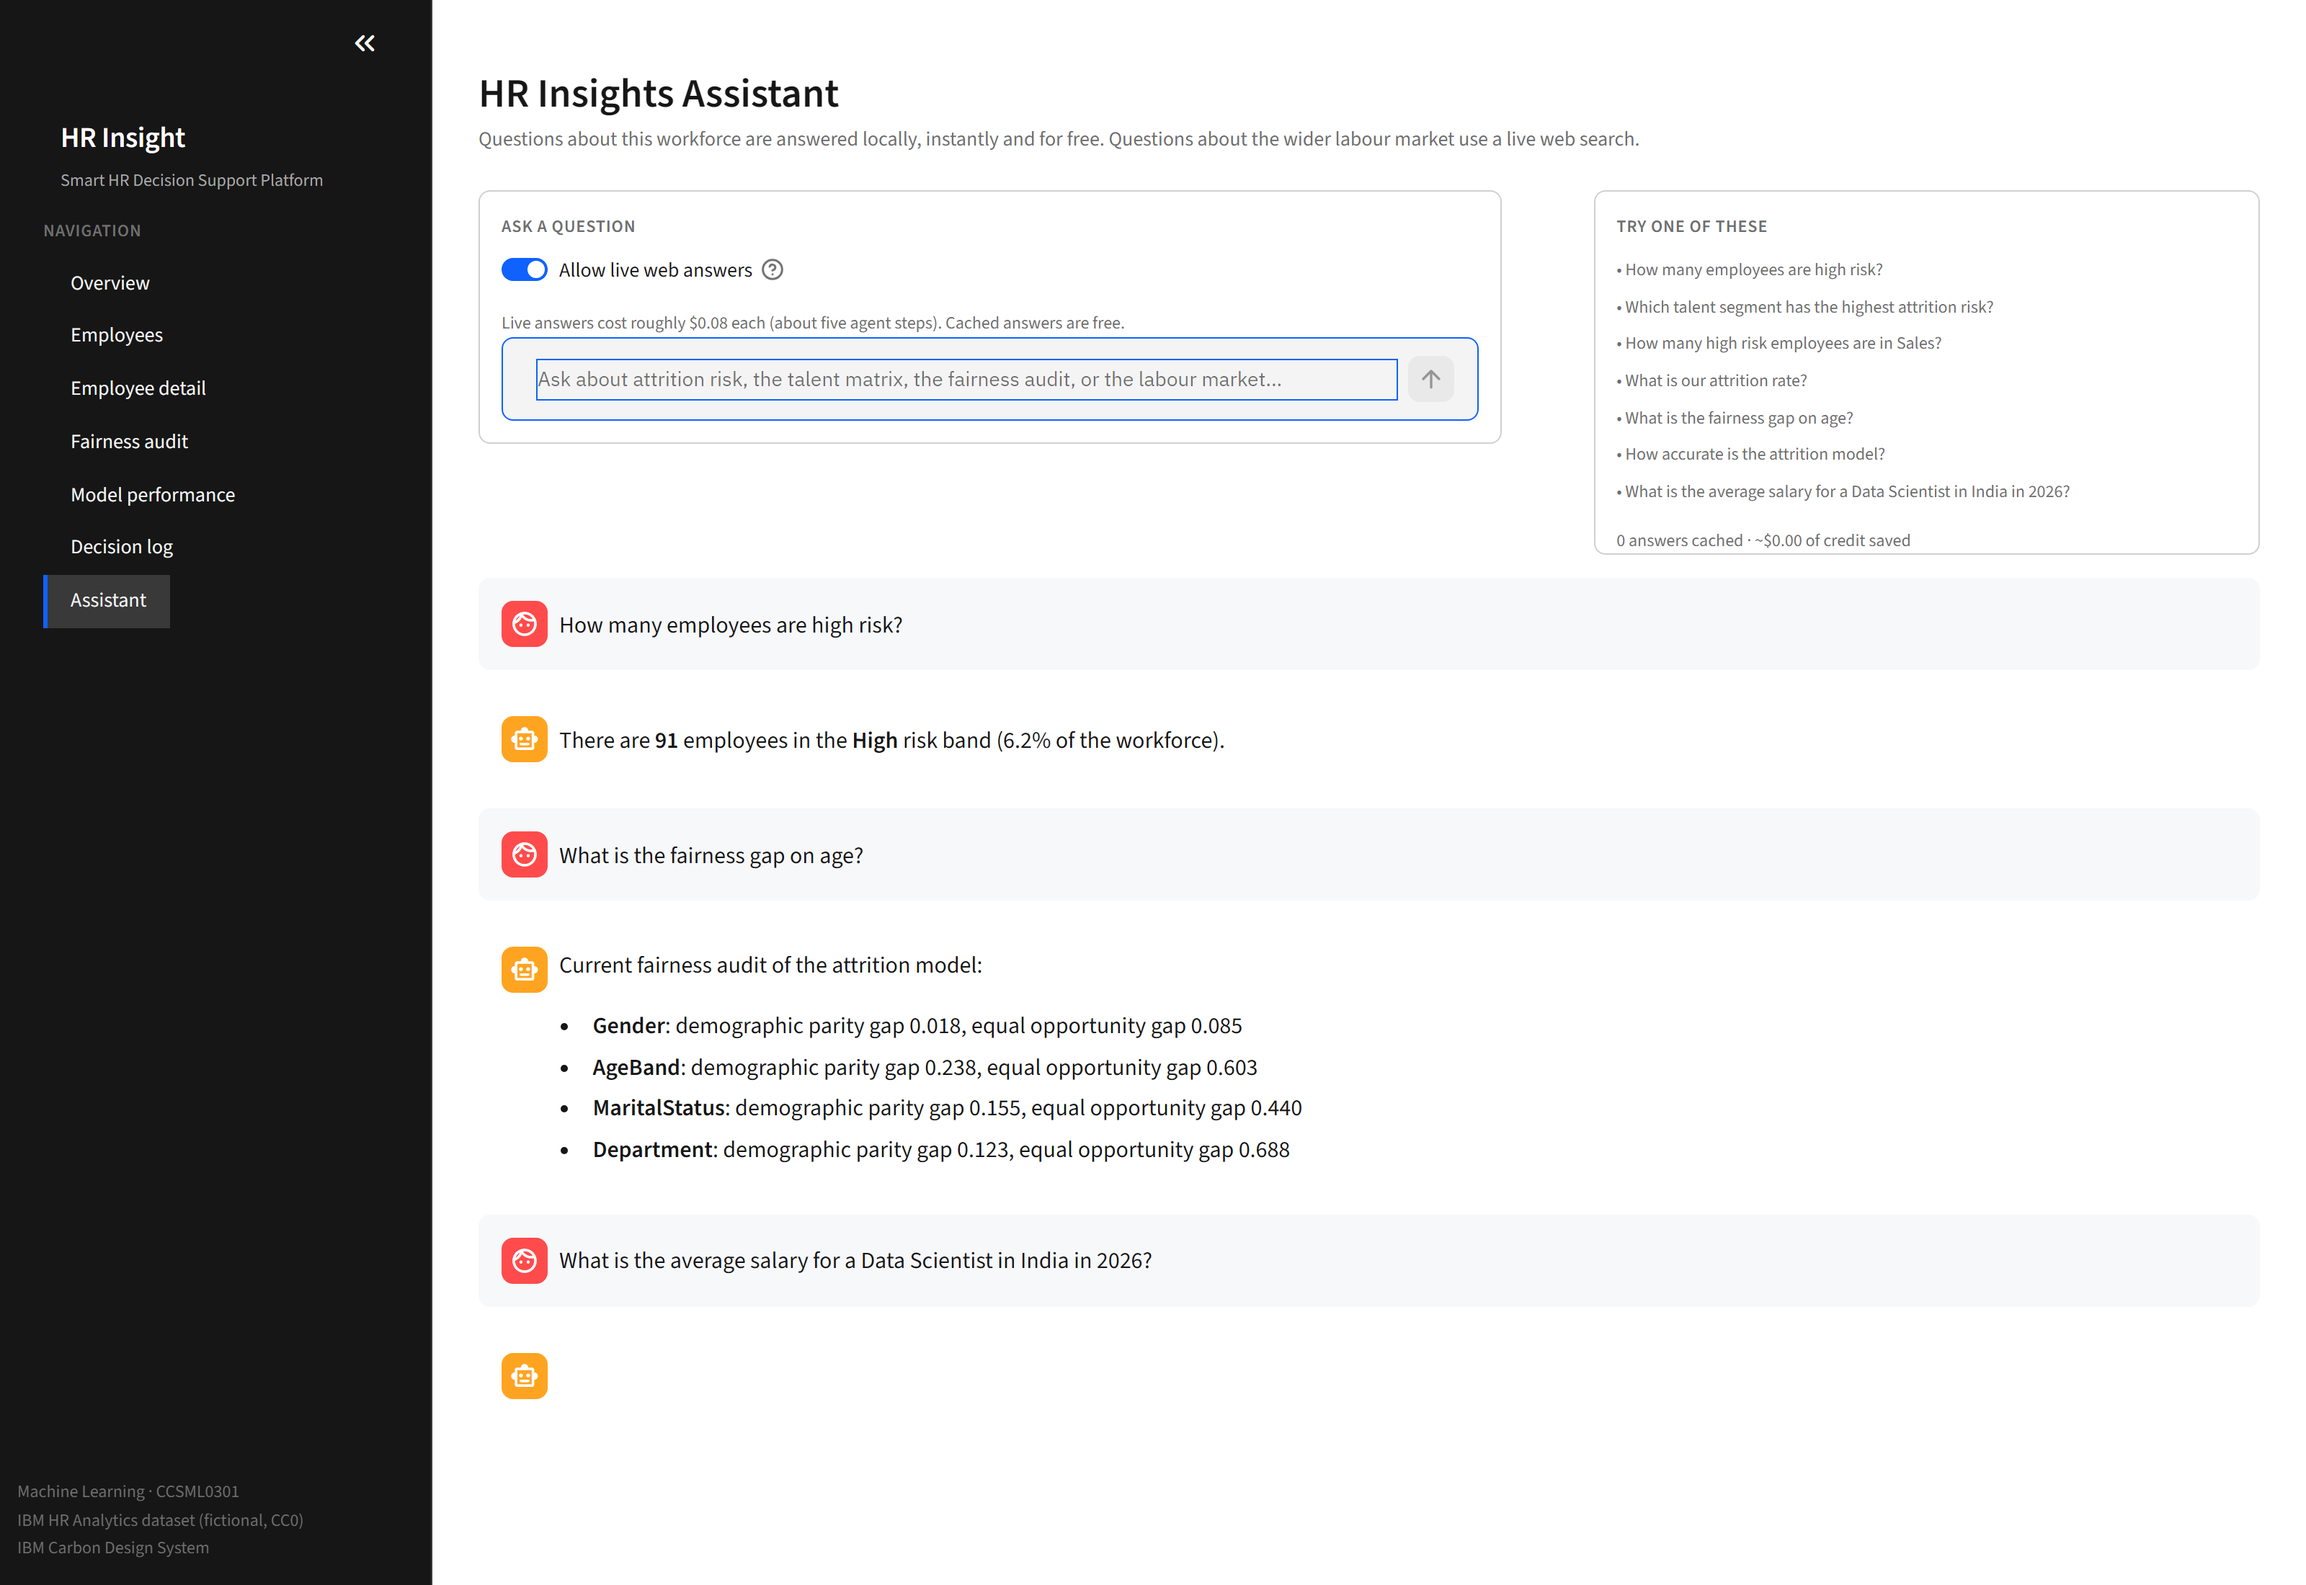
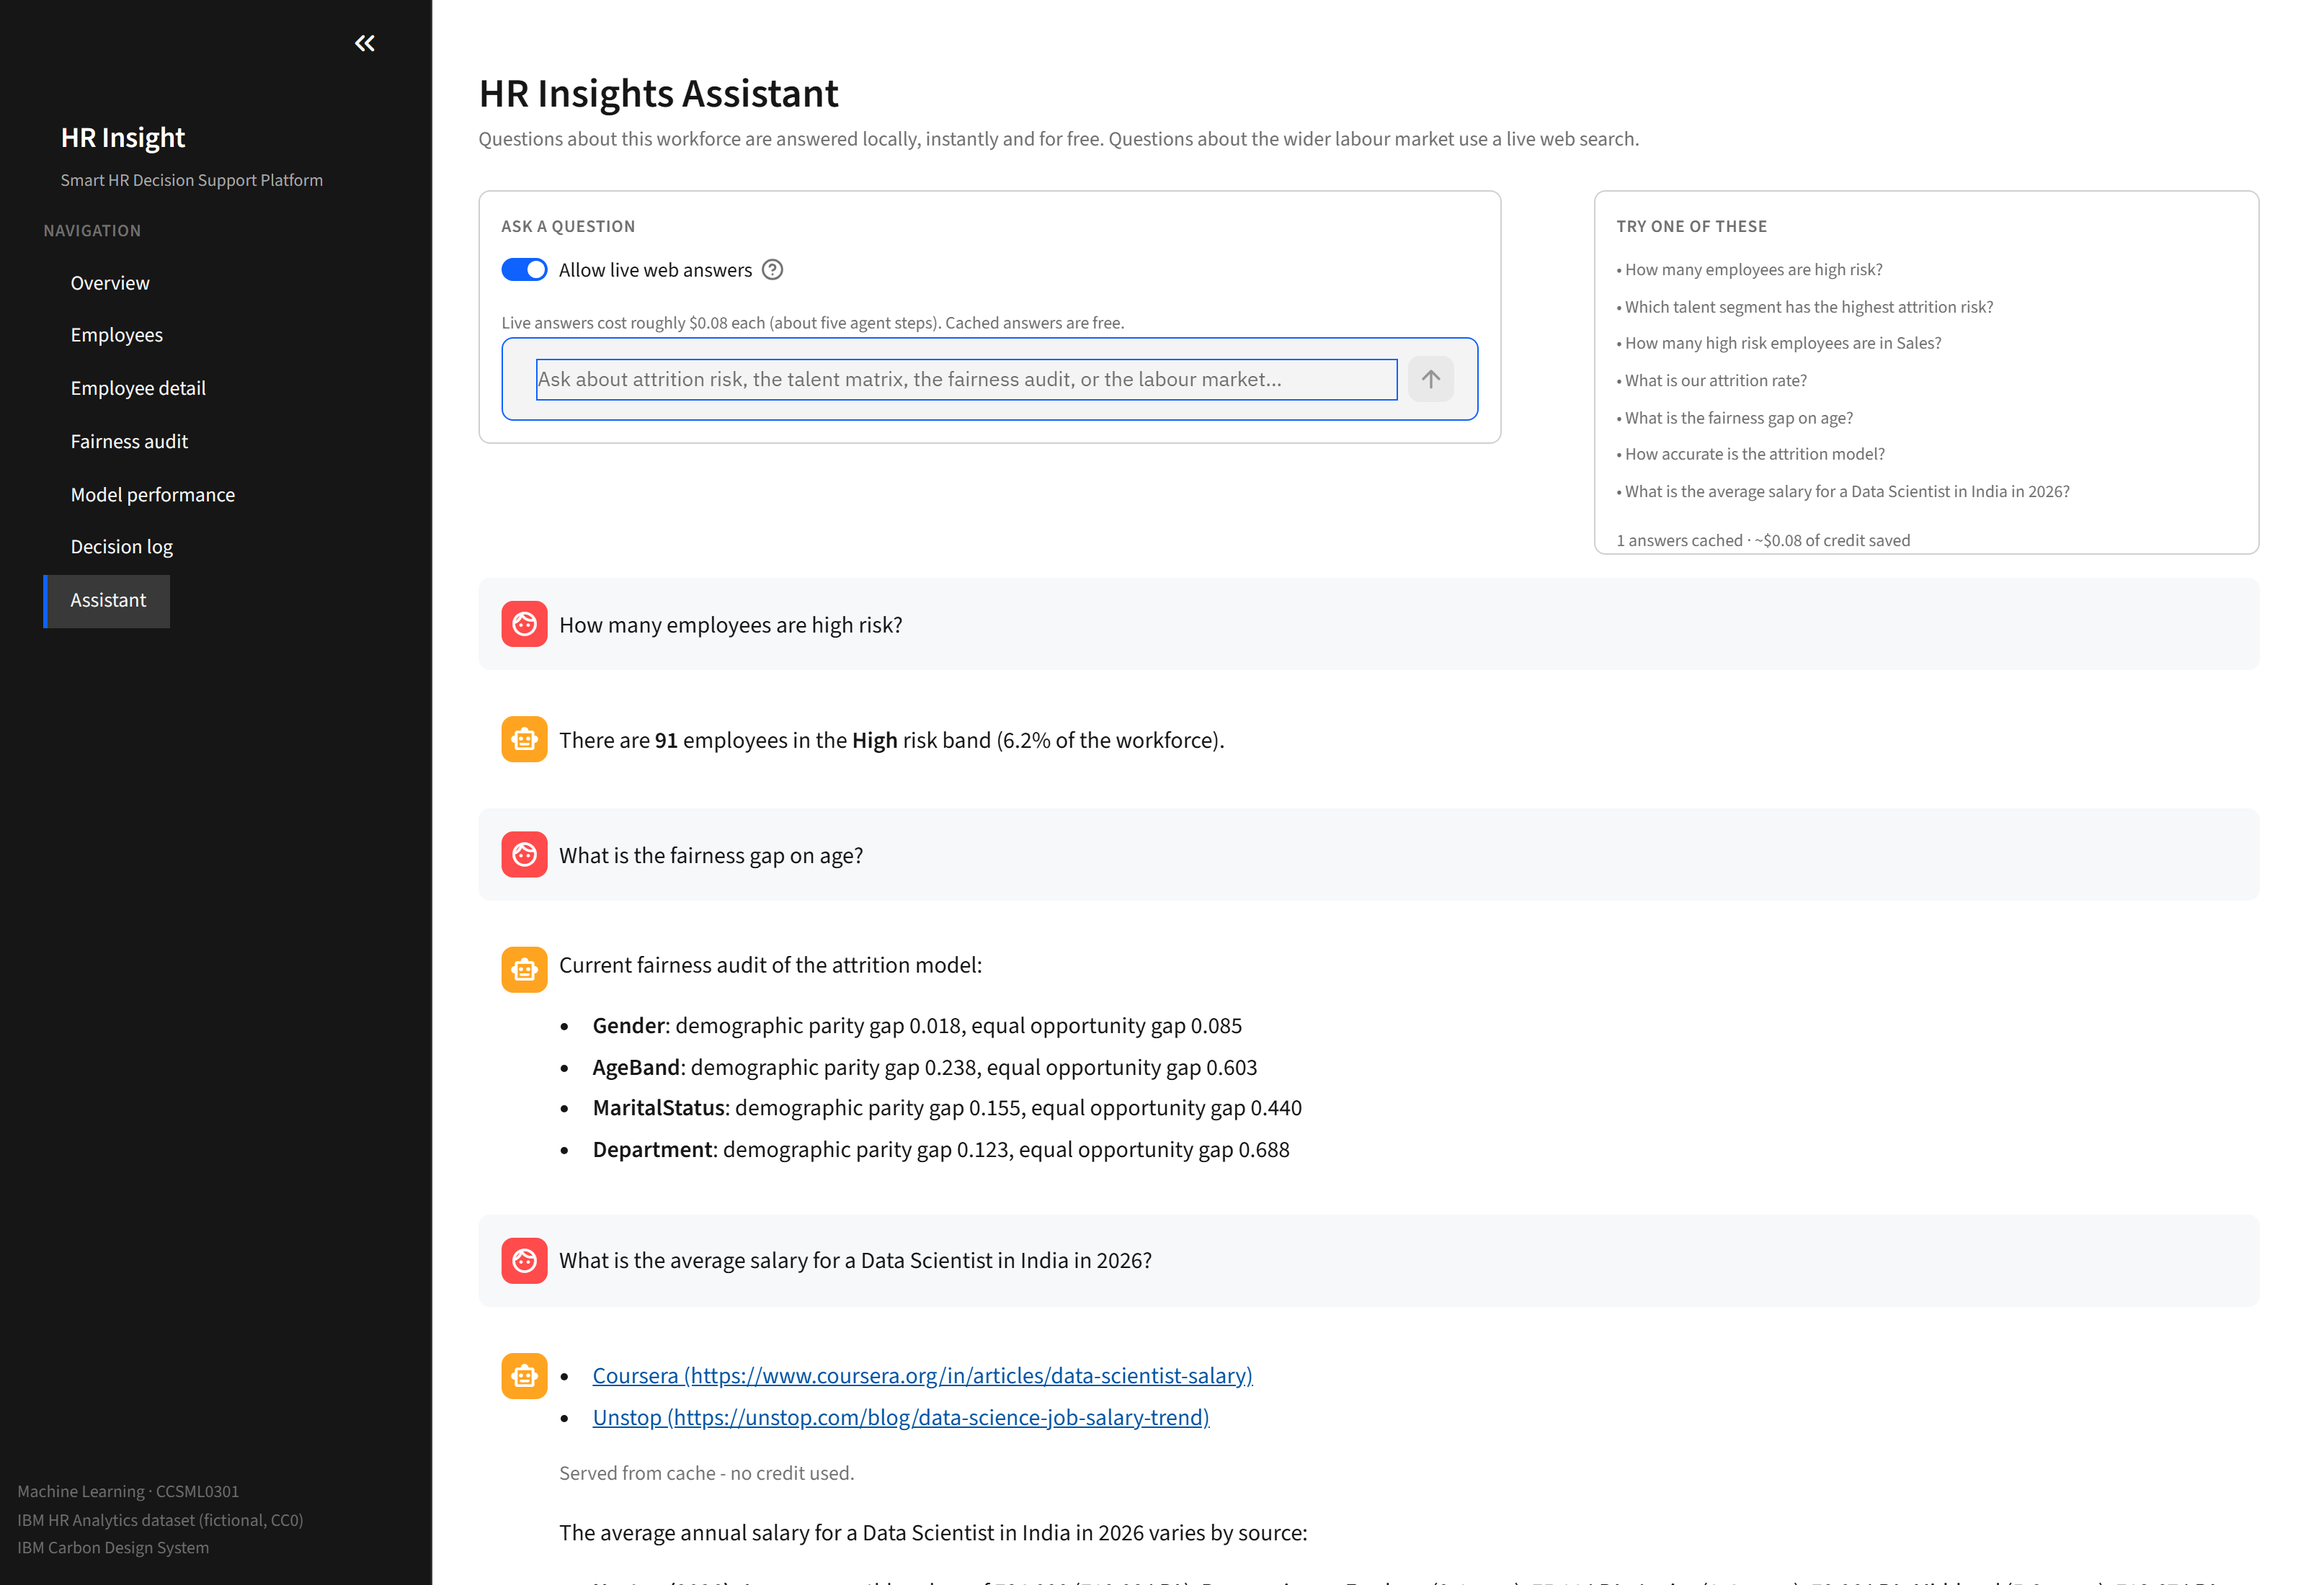
Add README_before.md - compacted project summary
A one-page companion to README.md and docs/report.md: what the project is,
how to run it, the module/result table, the three findings that carry the
report, the repo layout, the design-system summary, the budget, the
verification commands, and the three items left before submission.

diff --git a/README_before.md b/README_before.md
@@ -1,0 +1,161 @@
+# HR Insight — Compact Summary
+
+**Smart HR Decision Support Platform** · Machine Learning (CCSML0301) · BTech AI, Sem 3
+SDG 8 — Decent Work and Economic Growth · Individual assignment
+
+> Compacted one-page companion to [`README.md`](README.md) and
+> [`docs/report.md`](docs/report.md). Full detail lives in the model cards and
+> `docs/design.md`.
+
+---
+
+## What it is
+
+A decision-support platform for HR. It estimates attrition risk, places every employee
+on a talent matrix, explains each recommendation in plain language, audits the model for
+disparate impact across four protected attributes, and records every accept/override
+decision a manager makes.
+
+**Core commitment: the model advises, the human decides, the decision is recorded.**
+
+## Run it
+
+```bash
+pip install -r requirements.txt
+python ml/train_all.py      # rebuild every model + dataset (~61s, deterministic)
+streamlit run app/main.py   # http://localhost:8501
+```
+
+No Kaggle account needed — the dataset comes from a checksum-verified GitHub mirror.
+
+---
+
+## Modules and results
+
+| MVP | Module | Method | Headline result |
+|---|---|---|---|
+| 1 | Attrition risk | Logistic Regression + sigmoid calibration | ROC-AUC **0.813**, PR-AUC **0.584**, log-loss **0.339** (constant baseline 0.440) |
+| 2 | Talent matrix | K-Means (k=6, silhouette 0.278) + tertile axes | **9/9** cells populated, balanced axes |
+| 3 | Fairness audit | Fairlearn `MetricFrame`, reweighting, equalized-odds post-processing | AgeBand parity gap **0.238**, EO gap **0.603**, MAE ratio **1.98** |
+| 4 | Explainability | SHAP `LinearExplainer`, one-hot aggregated | Overtime **0.79**, Job role **0.49**, Environment **0.43** |
+| 5 | Human-in-the-loop | SQLite decision log | Overrides require a written reason |
+| 6 | Assistant | Deterministic local router + TinyFish live web | Internal = free/instant; live ≈ $0.08, cached |
+
+**7 pages:** Overview · Employees · Employee detail · Fairness audit · Model performance ·
+Decision log · Assistant
+
+---
+
+## Three findings that carry the report
+
+**1. The manager's performance rating is not a usable target.**
+`PerformanceRating` is a *deterministic* function of `PercentSalaryHike` — every employee
+with the same raise carries the same rating. Including the raise gives RMSE 0.0000 and
+R² 1.0000, which measures nothing. Remove it and the rating becomes *unpredictable*
+(CV ROC-AUC **0.457**, below chance). The talent matrix is therefore **descriptive, not
+predictive** — built on an observed engagement composite and an observed growth index.
+Pinned by a regression test.
+
+**2. The interpretable baseline won.**
+Logistic Regression (CV AUC **0.8411**) beat Gradient Boosting (0.8289), HistGradient
+Boosting (0.8130) and Random Forest (0.8071). Good news for an HR product: the winner is
+inherently interpretable and its SHAP values are exact rather than approximate.
+
+**3. Calibration was chosen on variance, not the mean.**
+Repeated CV (5×5) over {none, sigmoid, isotonic}: all three tie on mean log-loss
+(~0.324). Isotonic has **2.3× the variance** and emits degenerate 0/1 probabilities.
+Sigmoid wins the tie-break — the UI tells a manager "risk 62%", so stability matters more
+than a 0.003-nat mean difference.
+
+**Bonus — the fairness detector is validated, not just reported.**
+A synthetic generator injects a *known* unfair component. The reported gap tracks it
+monotonically (0.051 → 0.777) and model AUC *rises* with it (0.710 → 0.778): a more
+accurate model is not a fairer one.
+
+---
+
+## Layout
+
+```
+hr-insight/
+├── app/         main.py · theme.py (Carbon tokens + 11 Streamlit overrides)
+│                views/ (7 pages) · services/ (data·model·fairness·audit·assistant)
+├── ml/          common/ (features·metrics·fairness·explain·io)
+│                generate_synthetic · train_attrition · train_ninebox
+│                train_fairness · build_dataset · train_all
+├── data/        raw · processed · db
+├── docs/        design.md · report.md · fairness_report.md · model_cards/ · screenshots/
+├── notebooks/   01_EDA.ipynb
+├── tests/       58 tests
+└── ops/         Dockerfile · scripts/
+```
+
+Models train **offline** into committed `.pkl` artifacts; the app only loads and serves
+them, so it starts instantly and cannot crash mid-demo.
+
+---
+
+## Design system
+
+**IBM Carbon Design System** (open source, Apache-2.0) — chosen for enterprise
+maturity, published WCAG contrast tables, a purpose-built accessible data-viz palette,
+and thematic coherence with the IBM dataset.
+
+| Element | Value |
+|---|---|
+| Surface / layer | `#ffffff` / `#f4f4f4` |
+| Sidebar (Gray 100) | `#161616` |
+| Primary | `#0f62fe` (Blue 60) |
+| Risk High / Med / Low | `#da1e28` / `#ff832b` / `#198038` |
+| Type | IBM Plex Sans (300/400/600) |
+| Spacing | 8px mini unit |
+| Charts | Carbon's curated categorical order, truncated from the left |
+
+Token sheet, chart palettes, type scale, spacing grid and the 11 Streamlit overrides are
+in [`docs/design.md`](docs/design.md), with source URLs for every value.
+
+---
+
+## Budget
+
+| Use | Tool | Cost |
+|---|---|---|
+| Dataset, literature | GitHub raw | $0 |
+| Internal assistant answers | local router | $0 |
+| Live market answers | TinyFish Agent (~5 steps) | ~$0.08 each, cached |
+| **Spent so far** | | **~$0.08 of $16** |
+
+---
+
+## Verification
+
+```bash
+python -m pytest tests/ -v     # 58 passed
+python ml/train_all.py         # deterministic, ~61s
+```
+
+The suite renders **every page** through Streamlit's `AppTest` harness, so a broken view
+fails the build rather than the demo.
+
+---
+
+## Remaining before submission
+
+1. **Update the topic-approval form** — tick **Individual Assignment**, clear section D,
+   re-sign.
+2. **Fill `docs/report.md`** — every number is real and reproducible; `[write: …]` marks
+   where your own analysis goes. Prioritise §4.3 (leakage) and §7 (fairness).
+3. **Set OneDrive `hpc` to "Always keep on this device"** — Files On-Demand can break
+   git and pytest.
+
+---
+
+## Honest limitations
+
+- 1470 rows, 237 positives — confidence intervals are wide.
+- Only attrition is genuinely predictable in this dataset; the talent matrix is
+  descriptive by necessity.
+- Fairness is measured against chosen metrics on one fictional dataset; HR has 63
+  employees, so its rates are unstable.
+- The retention action rules are a transparent table, not a validated intervention.
+- The assistant's live route depends on a third-party service and its wallet credit.
